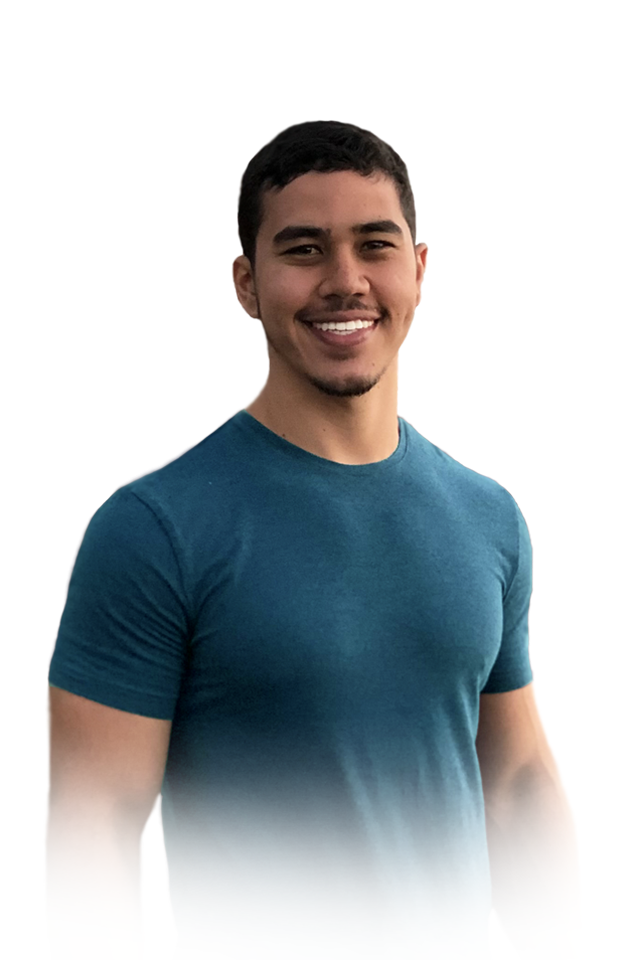
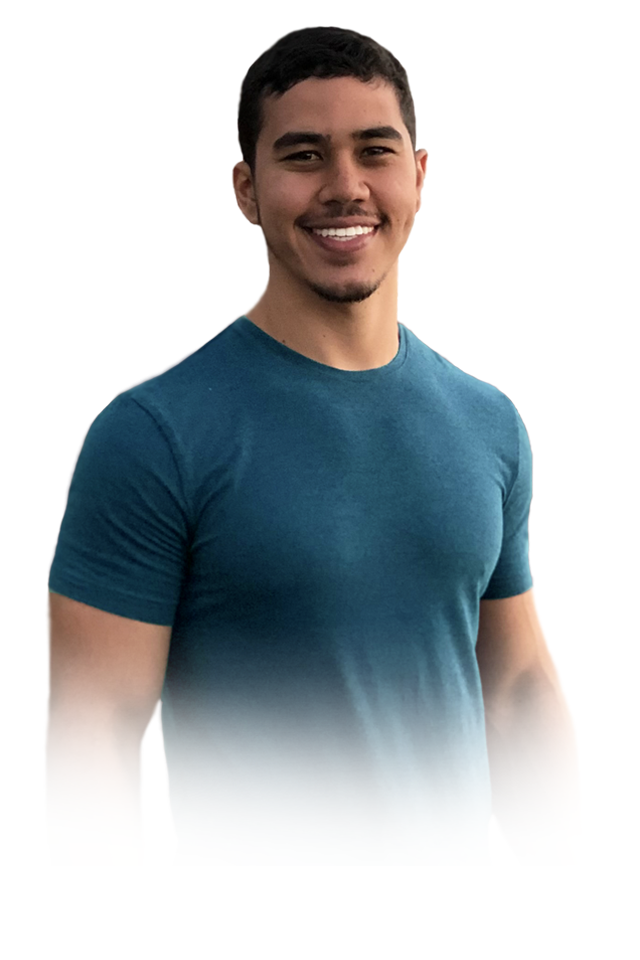
ultimo ajustes do perfil light

diff --git a/src/components/Home/index.tsx b/src/components/Home/index.tsx
@@ -14,7 +14,7 @@ export const Home = () => {
 
             <div className="md:overflow-hidden max-w-[420px] h-[420px] -mt-12 m-auto md:mt-0 flex md:grid justify-center md:after:hidden after:content-[''] after:block after:absolute after:bottom-0 relative dark:after:h-32 after:h-96 after:w-full dark:after:bg-linear-gray-3 after:bg-linear-light after:z-[1]  md:w-[400px]">
             <Image data-aos="flip-left" priority width={460} height={460} src={FotoPerfil.src} className="hidden dark:block order-1 object-cover object-top w-full h-full" alt="Foto de Perfil" />
-            <Image data-aos="flip-left" priority width={460} height={460} src={FotoPerfil2.src} className="block dark:hidden order-1 object-cover object-top w-full h-full" alt="Foto de Perfil" />
+            <Image data-aos="flip-left" priority width={460} height={460} src={FotoPerfil2.src} className="block dark:hidden order-1 object-cover object-top w-full h-full md:max-w-80" alt="Foto de Perfil" />
 
             </div>
 
